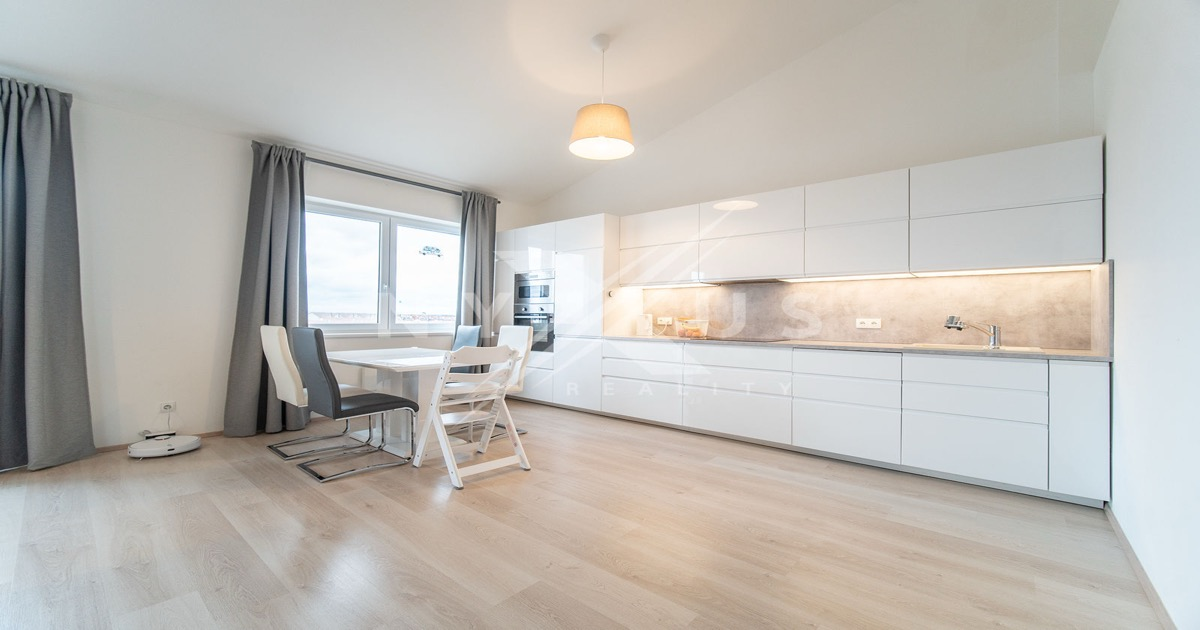
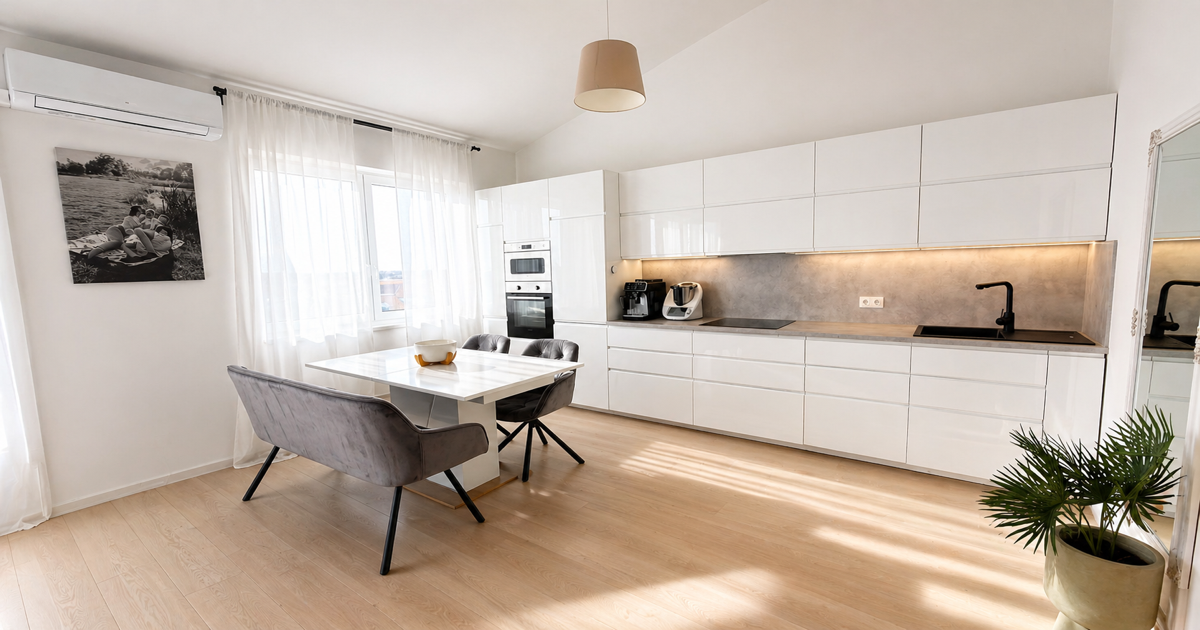
Replace old watermarked photos with new ones for kitchen, living room, kids room, hallway
- 9 new photos without watermark
- Logical photo order by room
- Update hero and OG image to new kitchen photo with AC

diff --git a/src/lib/data.ts b/src/lib/data.ts
@@ -33,27 +33,32 @@ V okolí se nachází veškerá občanská vybavenost — škola, dvě školky, 
 Bytová jednotka je v osobním vlastnictví a lze financovat hypotečním úvěrem.`;
 
 export const photos: { src: string; alt: string }[] = [
-  { src: "/photos/byt-chyne-1.jpg", alt: "Obývací pokoj s jídelním koutem a kuchyní" },
-  { src: "/photos/byt-chyne-2.jpg", alt: "Kuchyně s jídelnou a schodištěm do podkroví" },
-  { src: "/photos/byt-chyne-3-1.jpg", alt: "Kuchyňská linka s jídelním stolem" },
-  { src: "/photos/byt-chyne-4.jpg", alt: "Obývací pokoj — pohovka s TV" },
-  { src: "/photos/byt-chyne-5.jpg", alt: "Kuchyně se schodištěm do podkroví" },
-  { src: "/photos/byt-chyne-6.jpg", alt: "Obývací pokoj s kuchyní — celkový pohled" },
-  { src: "/photos/byt-chyne-7.jpg", alt: "Obývací pokoj se schodištěm" },
-  { src: "/photos/byt-chyne-8.jpg", alt: "Kuchyňská linka — detail" },
-  { src: "/photos/byt-chyne-9.jpg", alt: "Dětský pokoj" },
-  { src: "/photos/byt-chyne-10.jpg", alt: "Dětský pokoj — druhý pohled" },
+  // Obývací pokoj
+  { src: "/photos/novy-4-obyvak.jpg", alt: "Obývací pokoj — pohovka s TV" },
+  { src: "/photos/novy-5-obyvak-detail.jpg", alt: "Obývací pokoj — detail" },
+  // Kuchyně s jídelnou
+  { src: "/photos/novy-3-jidelna.jpg", alt: "Jídelna se schodištěm do podkroví" },
+  { src: "/photos/novy-1-kuchyne.jpg", alt: "Kuchyně s klimatizací a jídelním stolem" },
+  { src: "/photos/novy-2-kuchyne-detail.jpg", alt: "Kuchyňská linka — detail" },
+  // Předsíň
+  { src: "/photos/novy-9-predsin.jpg", alt: "Předsíň" },
+  // Dětský pokoj
+  { src: "/photos/novy-6-detsky-pokoj.jpg", alt: "Dětský pokoj" },
+  { src: "/photos/novy-7-detsky-pokoj-2.jpg", alt: "Dětský pokoj — druhý pohled" },
+  { src: "/photos/novy-8-detsky-pokoj-3.jpg", alt: "Dětský pokoj — třetí pohled" },
+  // Koupelna
   { src: "/photos/byt-chyne-11.jpg", alt: "Koupelna s vanou a pračkou" },
   { src: "/photos/byt-chyne-12.jpg", alt: "Koupelna — vana a umyvadlo" },
-  { src: "/photos/byt-chyne-13.jpg", alt: "Předsíň — vstupní dveře" },
-  { src: "/photos/byt-chyne-14.jpg", alt: "Předsíň se schodištěm" },
+  // Podkroví
   { src: "/photos/byt-chyne-15.jpg", alt: "Pracovna v podkroví" },
   { src: "/photos/byt-chyne-16.jpg", alt: "Pracovna v podkroví — širší pohled" },
   { src: "/photos/byt-chyne-17.jpg", alt: "Schodiště do podkroví" },
   { src: "/photos/byt-chyne-18.jpg", alt: "Herna v podkroví" },
   { src: "/photos/byt-chyne-19.jpg", alt: "Herna v podkroví — druhý pohled" },
+  // Balkon
   { src: "/photos/byt-chyne-20.jpg", alt: "Balkon — výhled na okolí" },
   { src: "/photos/byt-chyne-21.jpg", alt: "Balkon — druhý pohled" },
+  // Společné prostory a exteriér
   { src: "/photos/byt-chyne-22.jpg", alt: "Společné prostory — chodba" },
   { src: "/photos/byt-chyne-23.jpg", alt: "Výtah" },
   { src: "/photos/byt-chyne-24.jpg", alt: "Bytový dům — pohled zepředu" },

diff --git a/src/components/Hero.tsx b/src/components/Hero.tsx
@@ -5,7 +5,7 @@ export default function Hero() {
   return (
     <section className="relative h-[85vh] min-h-[500px] w-full md:h-screen">
       <Image
-        src="/photos/byt-chyne-3-1.jpg"
+        src="/photos/novy-1-kuchyne.jpg"
         alt={apartment.title}
         fill
         preload
